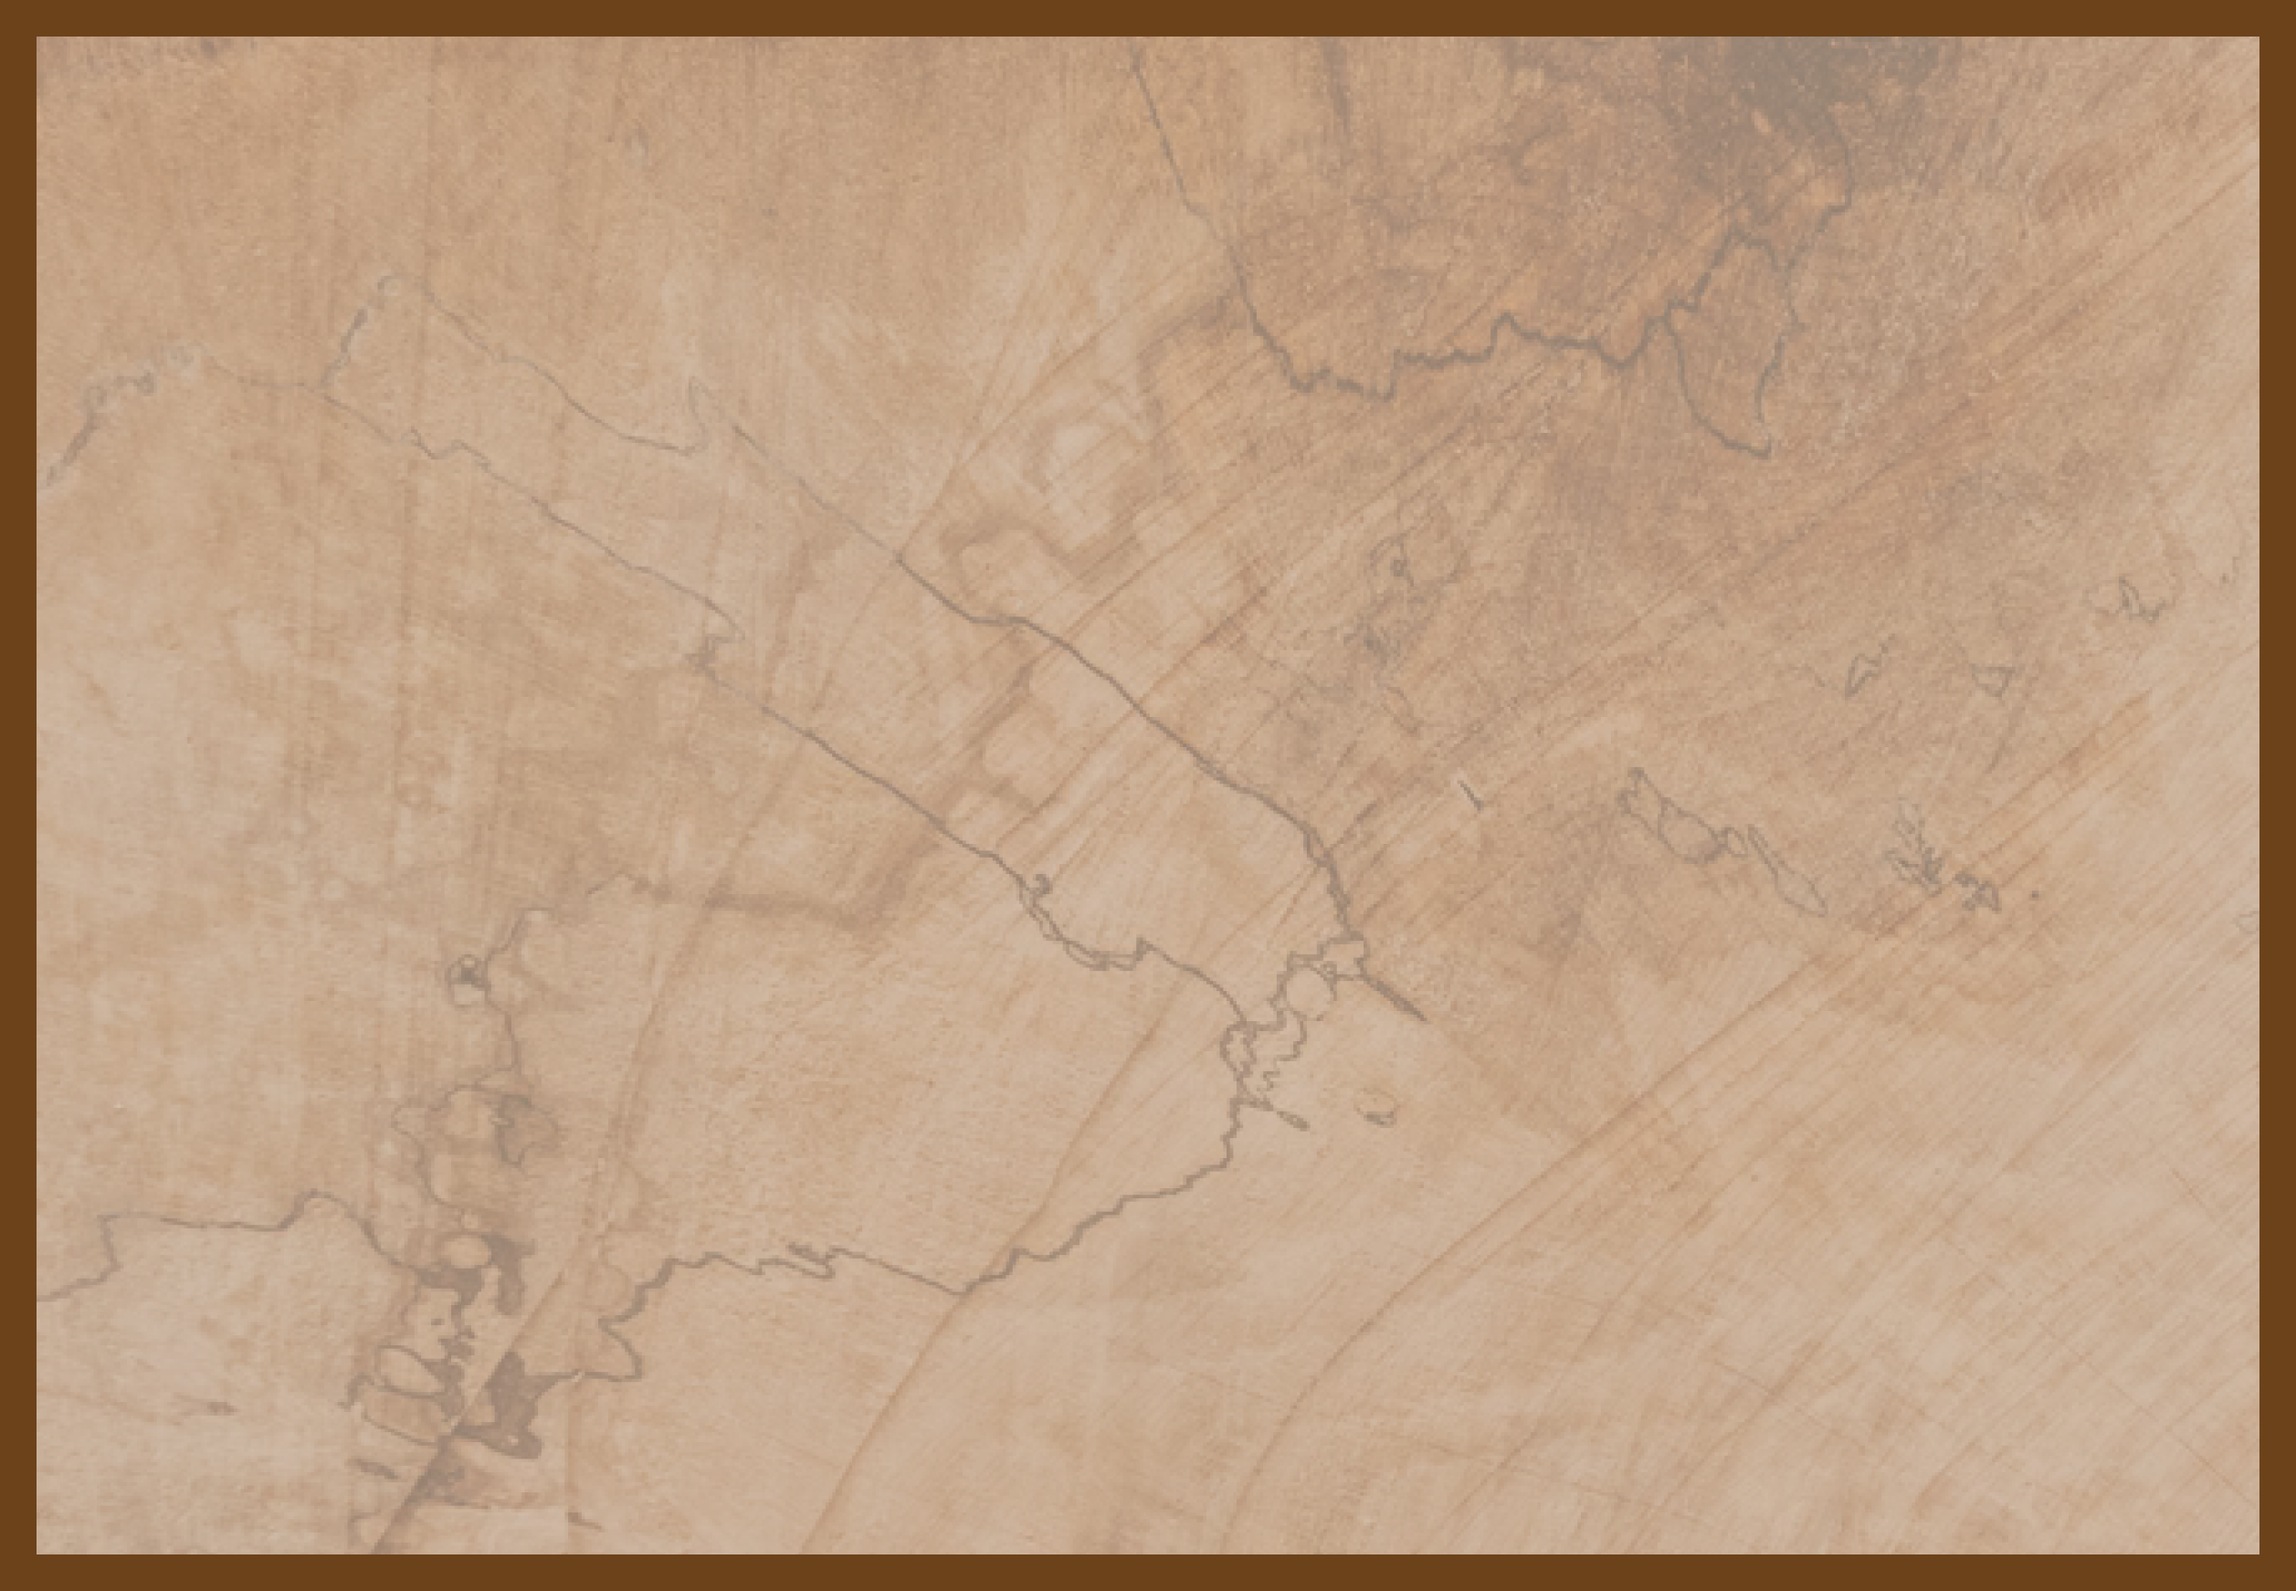
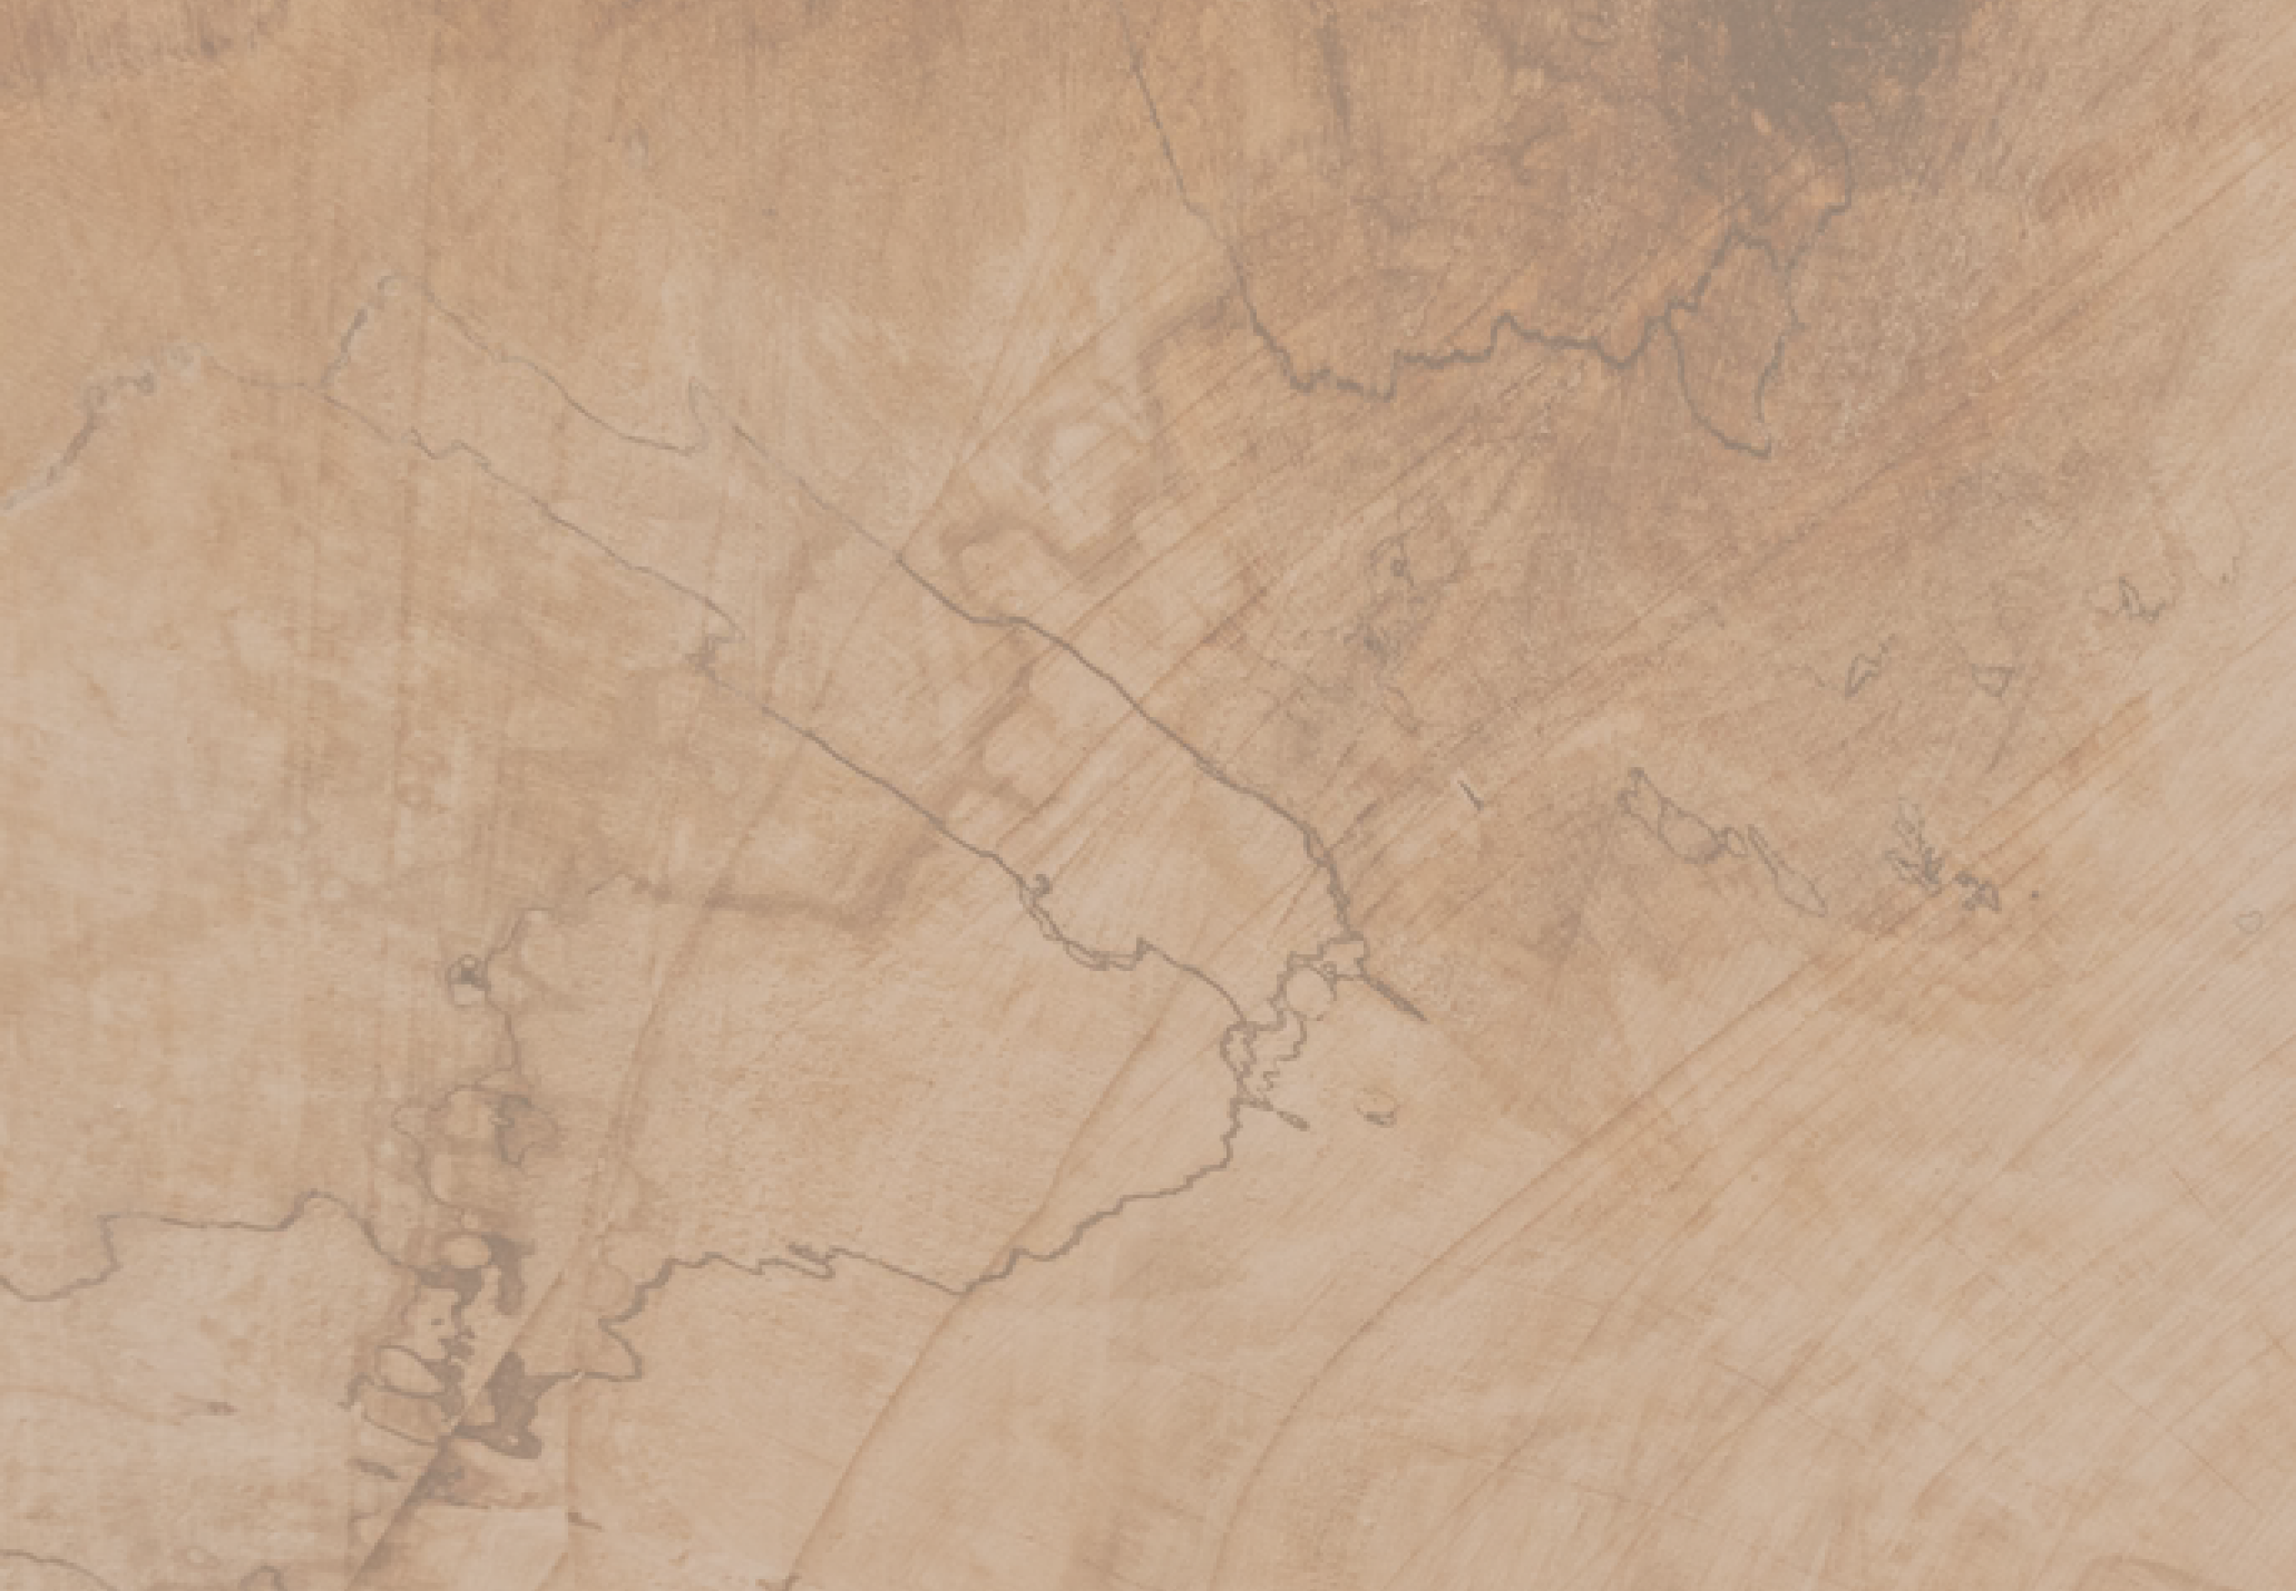
Job dashboard render better

Changed region(s): [[0.0, 0.0, 1.0, 1.0]]

diff --git a/src/components/Display/JobDashboard.vue b/src/components/Display/JobDashboard.vue
@@ -287,10 +287,13 @@ export default defineComponent({
 
 <style scoped lang="scss">
 .background {
+  -webkit-box-shadow: inset 0px 0px 0px 1vw #6C421B;
+  -moz-box-shadow: inset 0px 0px 0px 1vw #6C421B;
+  box-shadow: inset 0px 0px 0px 1vw #6C421B;
   width: 63vw;
-  height: 38.5vw;
+  height: 80vh;
   position: absolute;
-  background: url('../../assets/dashboard-bg.webp');
+  background: url('../../assets/dashboard-bg.png');
   left: 35vw;
   bottom: 0vw;
   overflow: auto;
@@ -299,7 +302,7 @@ export default defineComponent({
 }
 .display {
   width: 61vw;
-  height: 33.3vw;
+  height: 69vh;
   position: absolute;
   left: 1vw;
   top: 5.2vw;
